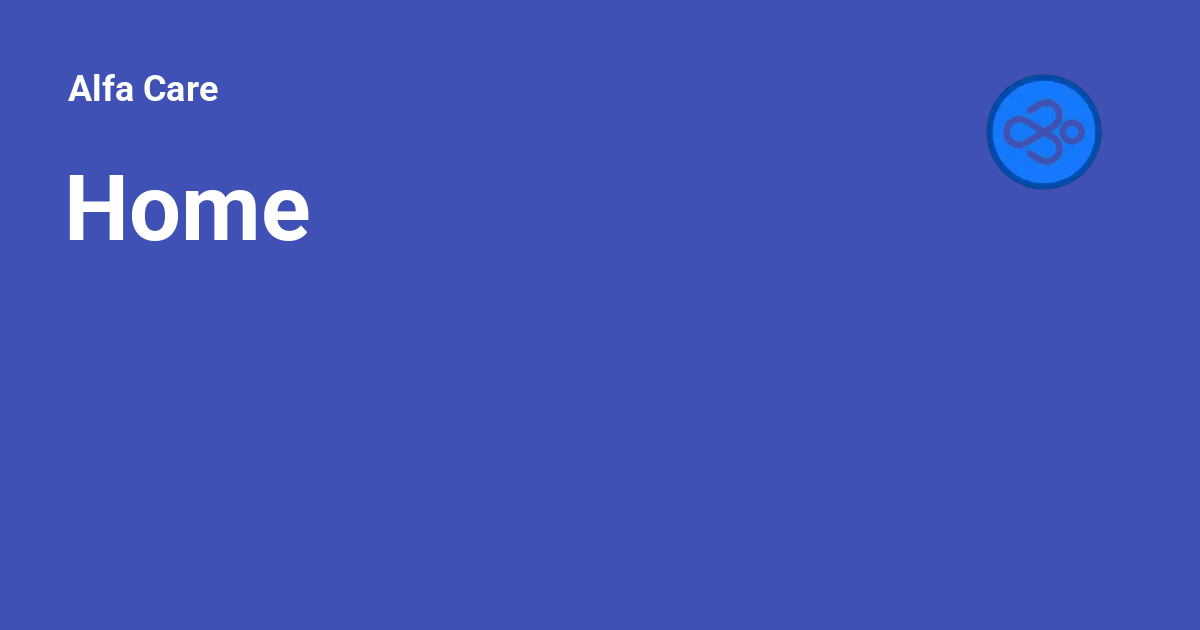
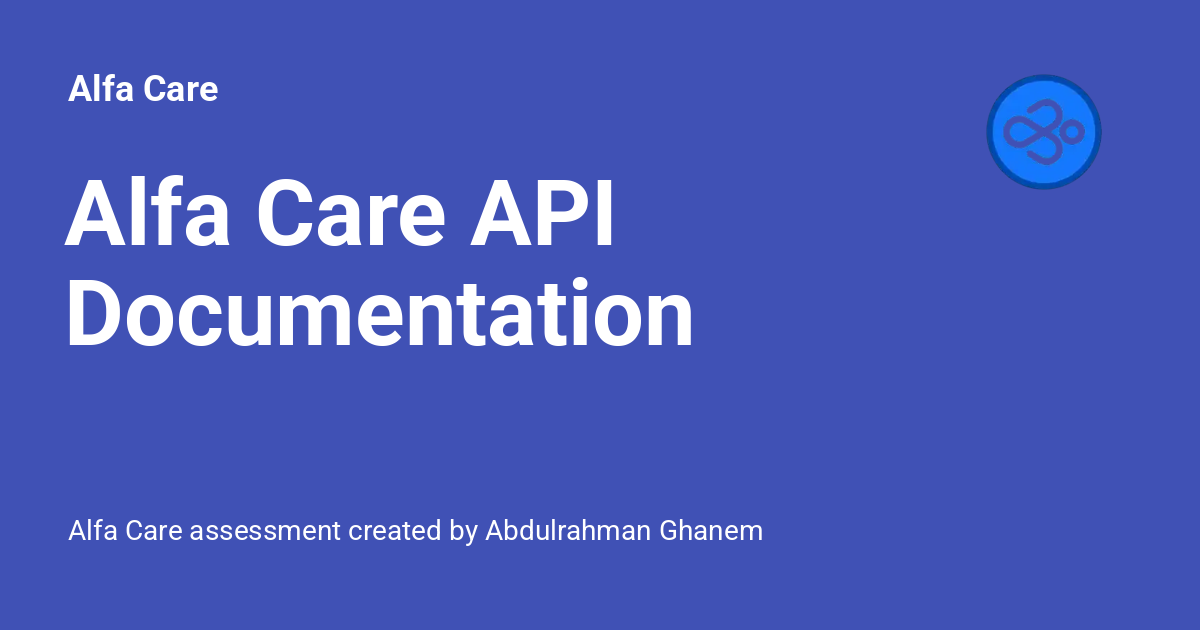
Update from https://github.com/AbdulrhmnGhanem/alfa/commit/58b4512dd567c09407b78442ae9df55c644b8221

Changed region(s): [[0.0308, 0.4222, 0.5858, 0.573], [0.0308, 0.2714, 0.5242, 0.3921], [0.0617, 0.8143, 0.6475, 0.8746]]

diff --git a/alfa/index.html b/alfa/index.html
@@ -6,6 +6,8 @@
       <meta charset="utf-8">
       <meta name="viewport" content="width=device-width,initial-scale=1">
       
+        <meta name="description" content="Alfa Care assessment created by Abdulrahman Ghanem">
+      
       
       
         <link rel="canonical" href="https://demos.abdulrhmnghanem.tech/alfa/">
@@ -20,7 +22,7 @@
     
     
       
-        <title>Alfa Care</title>
+        <title>Alfa Care API Documentation - Alfa Care</title>
       
     
     
@@ -56,7 +58,7 @@
       
         <meta  property="og:title"  content="Alfa Care" >
       
-        <meta  property="og:description"  content="None" >
+        <meta  property="og:description"  content="Alfa Care assessment created by Abdulrahman Ghanem" >
       
         <meta  property="og:image"  content="https://demos.abdulrhmnghanem.tech/alfa/assets/images/social/index.png" >
       
@@ -72,7 +74,7 @@
       
         <meta  name="twitter:title"  content="Alfa Care" >
       
-        <meta  name="twitter:description"  content="None" >
+        <meta  name="twitter:description"  content="Alfa Care assessment created by Abdulrahman Ghanem" >
       
         <meta  name="twitter:image"  content="https://demos.abdulrhmnghanem.tech/alfa/assets/images/social/index.png" >
       
@@ -125,7 +127,7 @@
         <div class="md-header__topic" data-md-component="header-topic">
           <span class="md-ellipsis">
             
-              Home
+              Alfa Care API Documentation
             
           </span>
         </div>

diff --git a/alfa/development/index.html b/alfa/development/index.html
@@ -778,7 +778,7 @@ Config<span class="o">(</span><span class="nv">db_url</span><span class="o">=</s
 <span class="go">TOTAL                       328     15    95%</span>
 
 
-<span class="go">============================== 14 passed in 1.83s ==============================</span>
+<span class="go">============================== 14 passed in 1.91s ==============================</span>
 </code></pre></div>
 <h2 id="quality-checks"><span class="twemoji"><svg xmlns="http://www.w3.org/2000/svg" viewBox="0 0 24 24"><path d="M10.25 2a8.25 8.25 0 0 1 6.34 13.53l5.69 5.69a.749.749 0 0 1-.326 1.275.75.75 0 0 1-.734-.215l-5.69-5.69A8.25 8.25 0 1 1 10.25 2M3.5 10.25a6.75 6.75 0 1 0 13.5 0 6.75 6.75 0 0 0-13.5 0"/></svg></span> Quality checks</h2>
 <p>To ensure a high level of code quality, I am using <a href="https://mypy.readthedocs.io/en/stable/">mypy</a>, <a href="https://astral.sh/ruff">ruff</a>,
